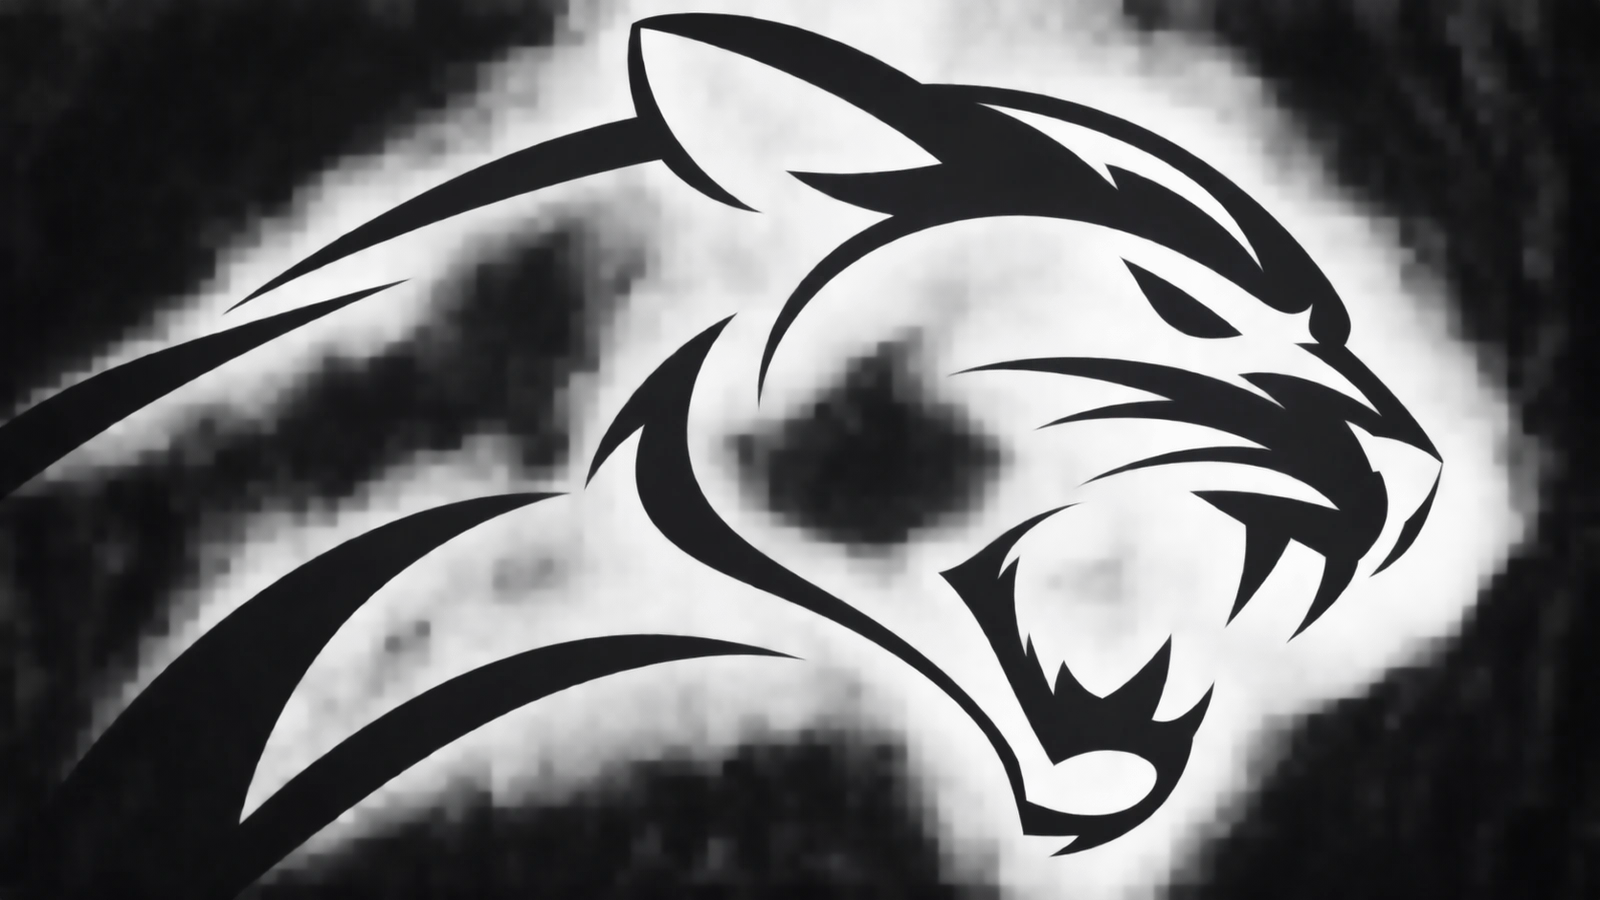
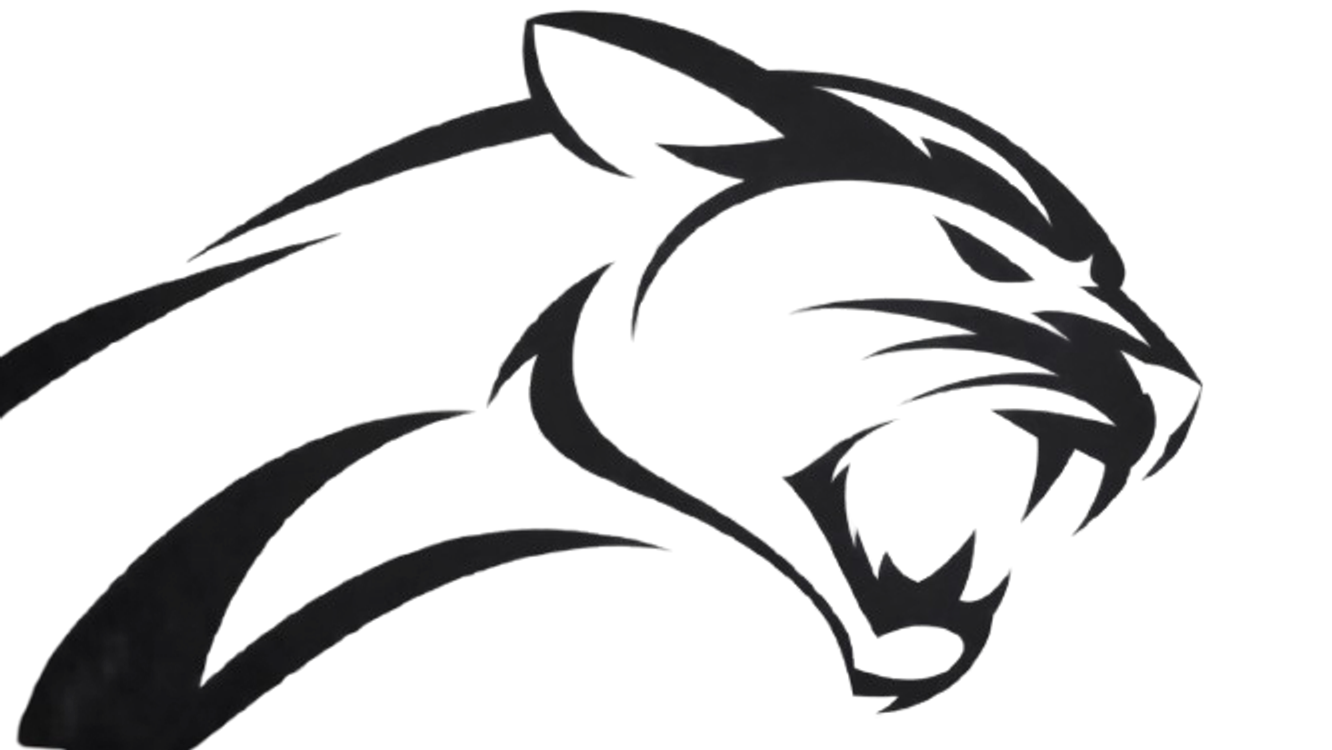
fix: improve Teams Arena lion and panther celebration images

diff --git a/docs/TEAMS-ARENA.md b/docs/TEAMS-ARENA.md
@@ -61,10 +61,11 @@ overlap and the bonus stays the agent's individual award (the celebration shows 
 hands any waiting celebration back to the standard sale card.
 
 **Artwork**: `public/teams/celebrations/sigma-lion-emblem.webp` and `panthers-panther-emblem.webp`, converted
-(resized to 1600 px, WebP) from the Owner's `Majestic Lion Emblem in Shadow.png` / `Stealth Panther Emblem.png`
-(kept in `assets/teams/originals/`); the artwork is not edited. Motion is layered (3D-style entrance, parallax,
-light pass, glowing edge), not character animation. The panther PNG is transparent, so it is shown on a
-backlight; the very dark lion is shown brighter on a navy plate.
+(2× high-quality resample to 1332 × 750, lossless WebP) from the Owner's transparent line-art PNGs (kept in
+`assets/teams/originals/` as `Sigma Lion Emblem (transparent).png` / `Panthers Panther Emblem (transparent).png`);
+the artwork is not edited. It is shown whole (contain, centred, never stretched) on a backlight (warm ivory-gold
+for Sigma, cool ice for Panthers) so the black linework reads clearly on the dark arena. To change an emblem,
+replace the WebP at the same path. Motion is layered (3D-style entrance, parallax, light pass, glowing edge).
 
 **Admin → Celebrations → Teams Arena sale celebrations**: on / off, sounds on / off (also follows the master
 sound, volume and the Sale category), Full / Lite, and Sigma / Panthers / other-team previews that run only on the
